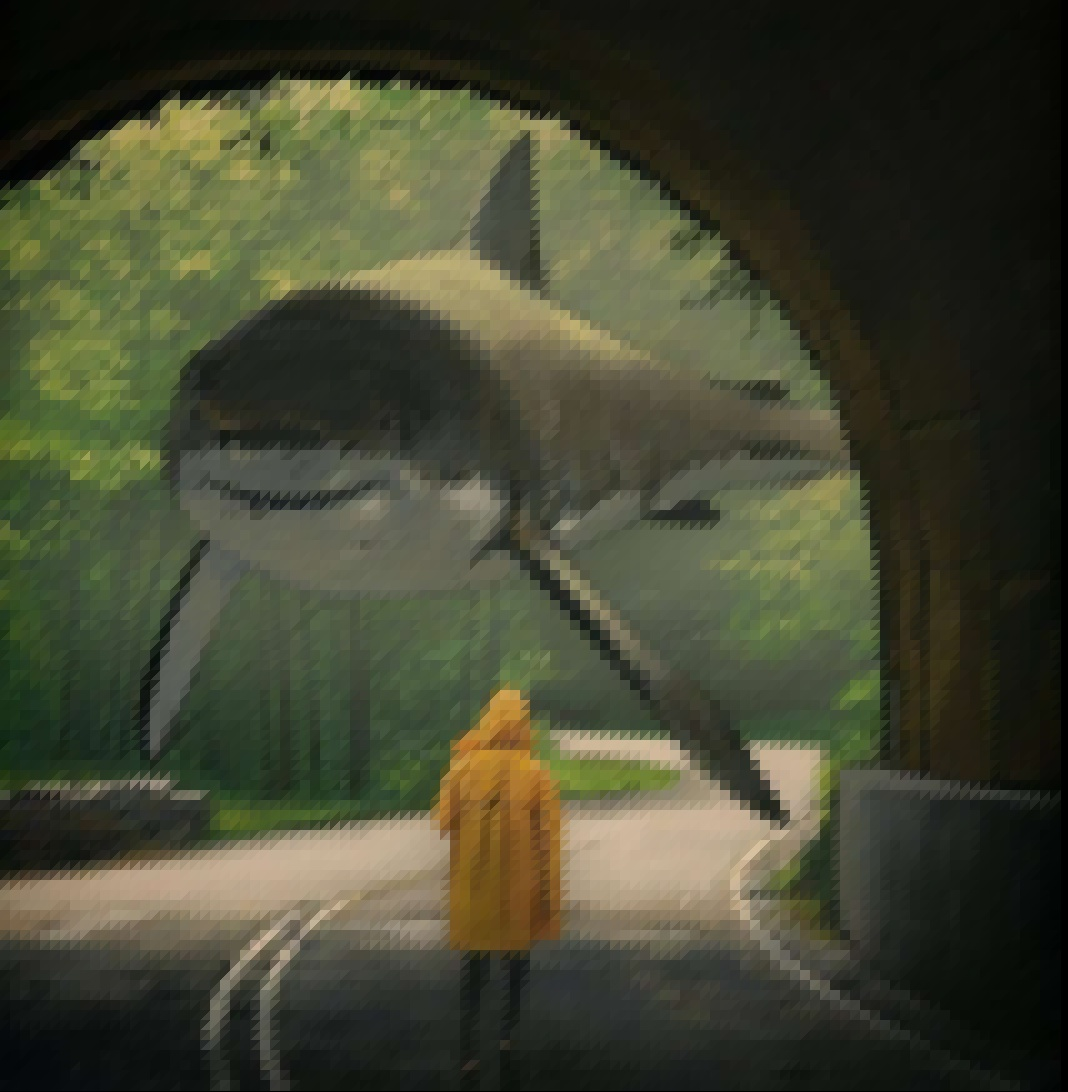
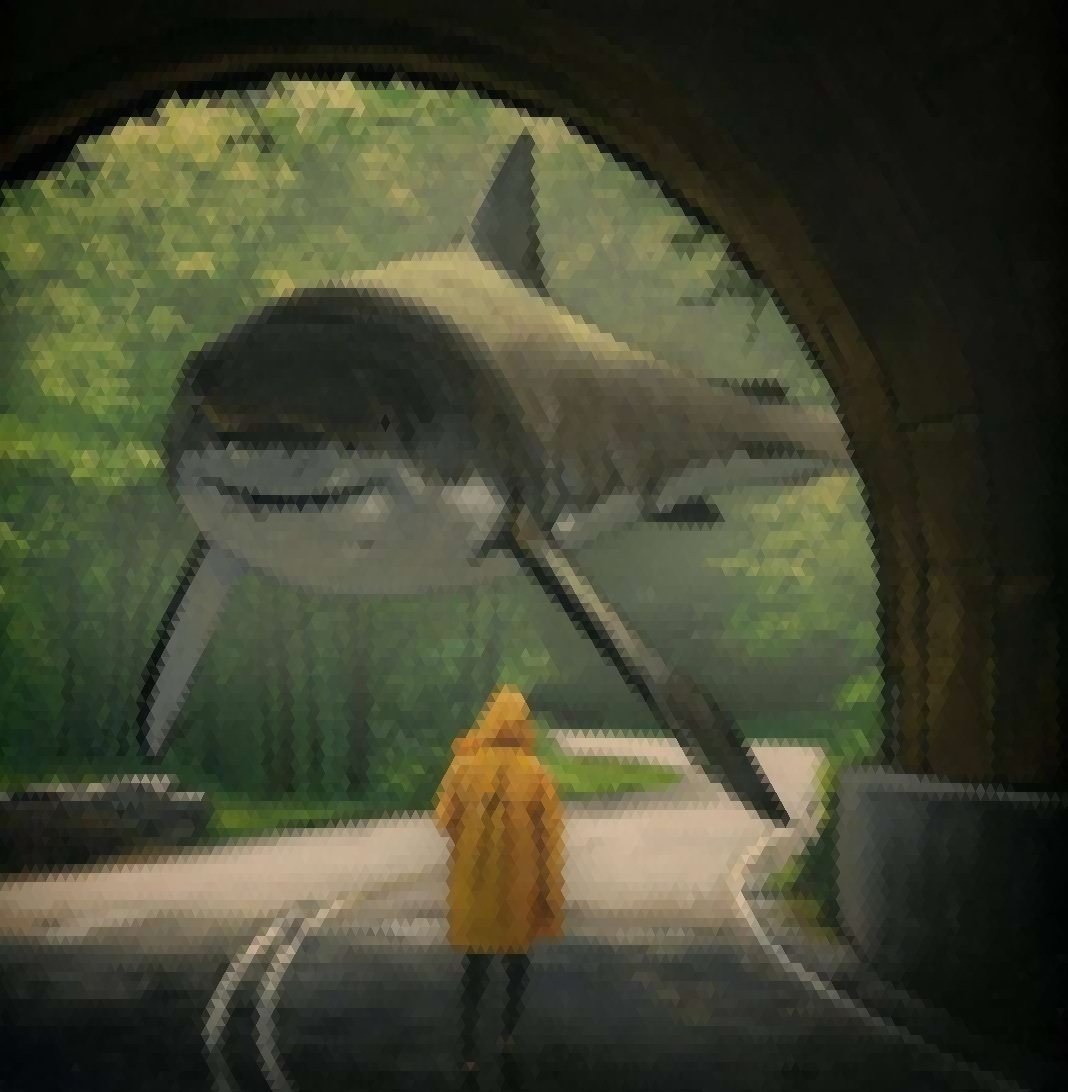
Switched shape over to equilateral triangle

diff --git a/convertor.py b/convertor.py
@@ -1,6 +1,102 @@
 import argparse
+import math
+
 import cv2
 import numpy as np
+
+
+def diamond_grid_mosaic(input_path, output_path, tile_size=40):
+    print(f"Converting {input_path} to {output_path} with tile size {tile_size}.")
+    img = cv2.imread(input_path)
+    if img is None:
+        raise FileNotFoundError(f"Could not load image at {input_path}")
+
+    h, w, _ = img.shape
+    canvas = np.zeros_like(img)
+
+    half = tile_size // 2
+
+    for row, y in enumerate(range(0, h + tile_size, half)):
+        # stagger every other row
+        x_offset = 0 if row % 2 == 0 else half
+
+        for x in range(x_offset, w + tile_size, tile_size):
+            pts = np.array([
+                (x, y - half),  # top
+                (x + half, y),  # right
+                (x, y + half),  # bottom
+                (x - half, y)  # left
+            ], np.int32)
+
+            # Clip to image boundaries
+            pts[:, 0] = np.clip(pts[:, 0], 0, w - 1)
+            pts[:, 1] = np.clip(pts[:, 1], 0, h - 1)
+
+            mask = np.zeros((h, w), dtype=np.uint8)
+            cv2.fillConvexPoly(mask, pts, 1)
+
+            mean_color = cv2.mean(img, mask=mask)[:3]
+            cv2.fillConvexPoly(canvas, pts, mean_color)
+
+    cv2.imwrite(output_path, canvas)
+    print(f"Diamond mosaic saved at {output_path}")
+
+
+def triangle_grid_mosaic_equ(input_path, output_path, tile_size):
+    print(f"Converting {input_path} to {output_path} with tile size {tile_size}.")
+    img = cv2.imread(input_path)
+    if img is None:
+        raise FileNotFoundError(f"Could not load image at {input_path}")
+
+    h, w, _ = img.shape
+
+    # Start from the original image so uncovered pixels aren't black
+    canvas = img.copy()
+
+    # Use rounded height to avoid cumulative truncation error
+    tri_height = int(round((math.sqrt(3) / 2) * tile_size))
+
+    # Expand the loops so triangles outside the frame get clipped in,
+    # ensuring full coverage at the borders
+    y_start = -tri_height
+    y_end = h + 2 * tri_height
+    x_start = -tile_size
+    x_end = w + tile_size
+
+    for row, y in enumerate(range(y_start, y_end, tri_height)):
+        x_offset = 0 if row % 2 == 0 else tile_size // 2
+
+        for x in range(x_start + x_offset, x_end, tile_size):
+            # Upward triangle
+            pts_up = np.array([
+                (x, y),
+                (x + tile_size // 2, y + tri_height),
+                (x - tile_size // 2, y + tri_height)
+            ], dtype=np.int32)
+
+            mask = np.zeros((h, w), dtype=np.uint8)
+            cv2.fillConvexPoly(mask, pts_up, 255)  # 255 mask for cv2.mean
+
+            if mask.any():
+                mean_color = cv2.mean(img, mask=mask)[:3]
+                cv2.fillConvexPoly(canvas, pts_up, mean_color)
+
+            # Downward triangle
+            pts_down = np.array([
+                (x, y + 2 * tri_height),
+                (x + tile_size // 2, y + tri_height),
+                (x - tile_size // 2, y + tri_height)
+            ], dtype=np.int32)
+
+            mask[:] = 0
+            cv2.fillConvexPoly(mask, pts_down, 255)
+
+            if mask.any():
+                mean_color = cv2.mean(img, mask=mask)[:3]
+                cv2.fillConvexPoly(canvas, pts_down, mean_color)
+
+    cv2.imwrite(output_path, canvas)
+    print(f"Equilateral triangle mosaic saved at {output_path}")
 
 
 def triangle_grid_mosaic(input_path, output_path, tile_size):
@@ -45,9 +141,12 @@ def triangle_grid_mosaic(input_path, output_path, tile_size):
 
 
 parser = argparse.ArgumentParser(description="Converts file to low poly tri file")
-parser.add_argument("--input_file", default="test_org3.png", type=str, help="Path to the input file.", required=False)
-parser.add_argument("--out_put", default="45_test_output.png", type=str, help="Path to the input file.", required=False)
-parser.add_argument("--tile_size", default=55, type=int, help="Path to the input file.", required=False)
+parser.add_argument("--input_file", default="test_org.jpg", type=str, help="Path to the input file.", required=False)
+parser.add_argument("--out_put", default="100_test_output.jpg", type=str, help="Path to the input file.",
+                    required=False)
+parser.add_argument("--tile_size", default=100, type=int, help="Path to the input file.", required=False)
 args = parser.parse_args()
 
-triangle_grid_mosaic(args.input_file, args.out_put, args.tile_size)
+triangle_grid_mosaic_equ(args.input_file, args.out_put, args.tile_size)
+# diamond_grid_mosaic(args.input_file, args.out_put, args.tile_size)
+# triangle_grid_mosaic(args.input_file, args.out_put, args.tile_size)

diff --git a/README.md b/README.md
@@ -2,37 +2,26 @@
 Converts picture to mosaic
 
 Original:
-![screenshot](examples/test_org.jpg)
-Tile Size 40:
-![screenshot](examples/40_test_output.jpg)
-Tile Size 100:
-![screenshot](examples/100_test_output.jpg)
-Tile Size 200:
-![screenshot](examples/200_test_output.jpg)
-<br>
-
-Original:
-![screenshot](examples/test_org3.png) 
-Tile Size 10:
-![screenshot](examples/10_test_output3.png)
+![screenshot](examples/test_org3.png)
+Tile Size 50:
+![screenshot](examples/50_test_output3.png)
 Tile Size 20:
 ![screenshot](examples/20_test_output3.png)
-Tile Size 100:
-![screenshot](examples/100_test_output3.png)
-Tile Size 200:
-![screenshot](examples/200_test_output3.png)
 <br>
 
-
 Original:
-![screenshot](examples/test_org2.JPG) 
-Tile Size 10:
-![screenshot](examples/10_test_output2.jpg)
+![screenshot](examples/test_org2.JPG)
+Tile Size 50:
+![screenshot](examples/50_test_output2.jpg)
 Tile Size 20:
 ![screenshot](examples/20_test_output2.jpg)
-Tile Size 100:
-![screenshot](examples/100_test_output2.jpg)
+Tile Size 10:
+![screenshot](examples/10_test_output2.jpg)
+
+Original:
+![screenshot](examples/test_org.jpg)
 Tile Size 200:
-![screenshot](examples/200_test_output2.jpg)
-
-
+![screenshot](examples/200_test_output.jpg)
+Tile Size 100:
+![screenshot](examples/100_test_output.jpg)
+<br>
